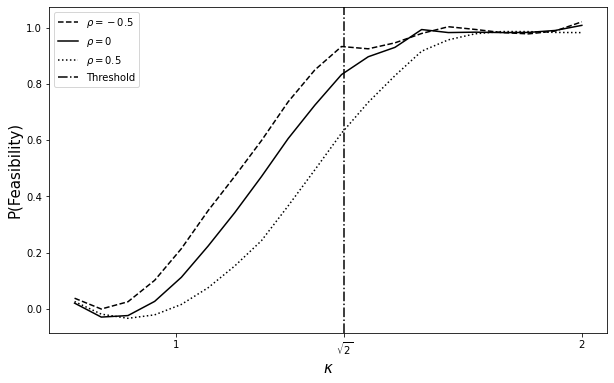
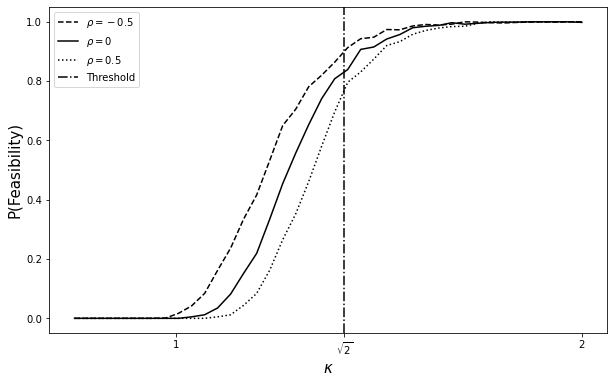
Update_fig2

diff --git a/Code/figure2.py b/Code/figure2.py
@@ -15,7 +15,7 @@ from functions import elliptic_normal_matrix_opti
 # %%
 
 # Set the parameters:
-MC_PREC = 100  # number of MC experiments
+MC_PREC = 1000  # number of MC experiments
 SIZE_SAMPLE = 40  # definition of the size of the sample
 # We introduce the interval of Kappa we want to study.
 ind = np.linspace(0.75, 2, SIZE_SAMPLE)
@@ -25,7 +25,7 @@ rho_index = np.array([-0.5, 0, 0.5])
 NBR_RHO_IT = 3
 
 # Dimension of the matrix:
-n = 100
+n = 1000
 
 # Storage matrix of the number of feasible solution:
 res_hat = np.eye(NBR_RHO_IT, SIZE_SAMPLE)
